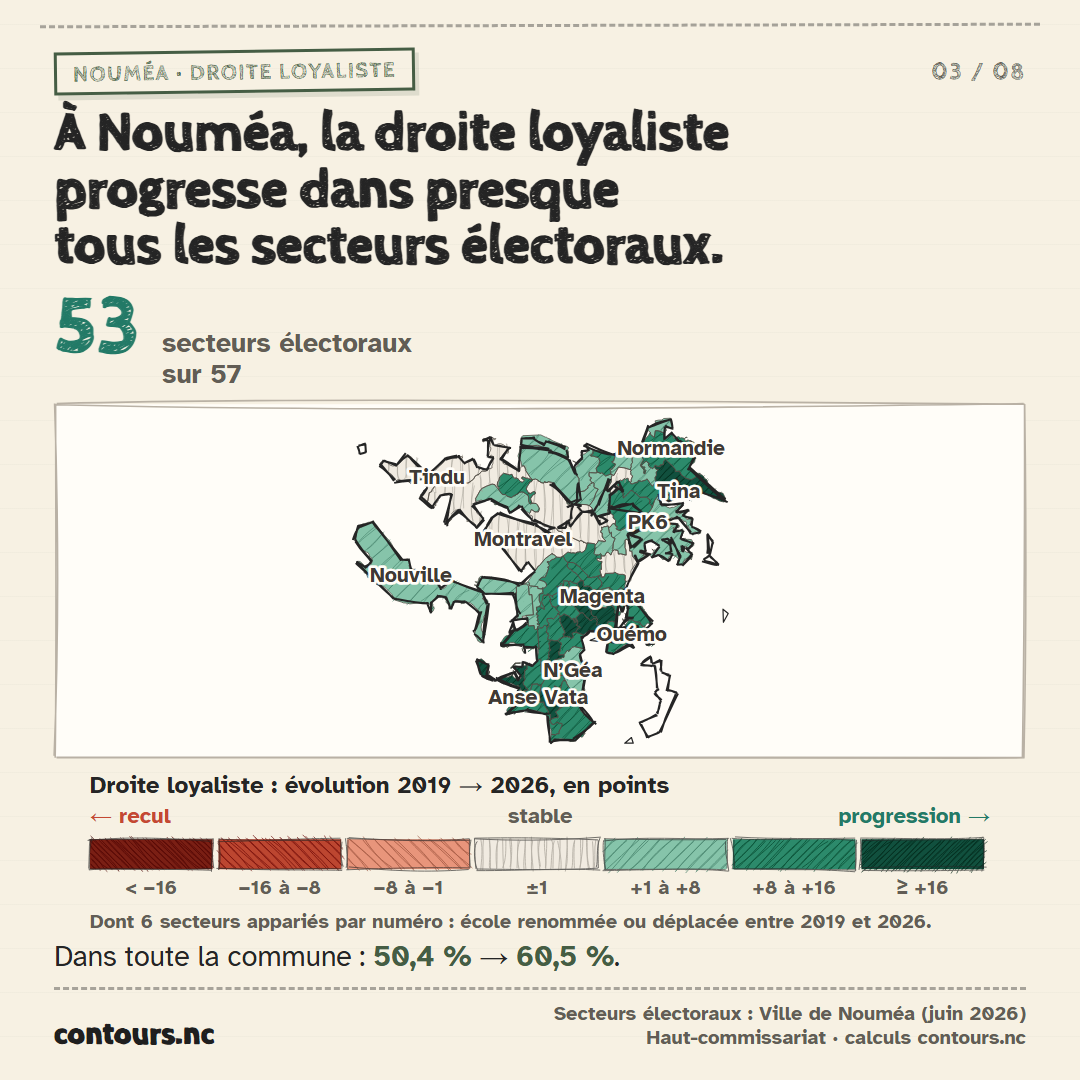
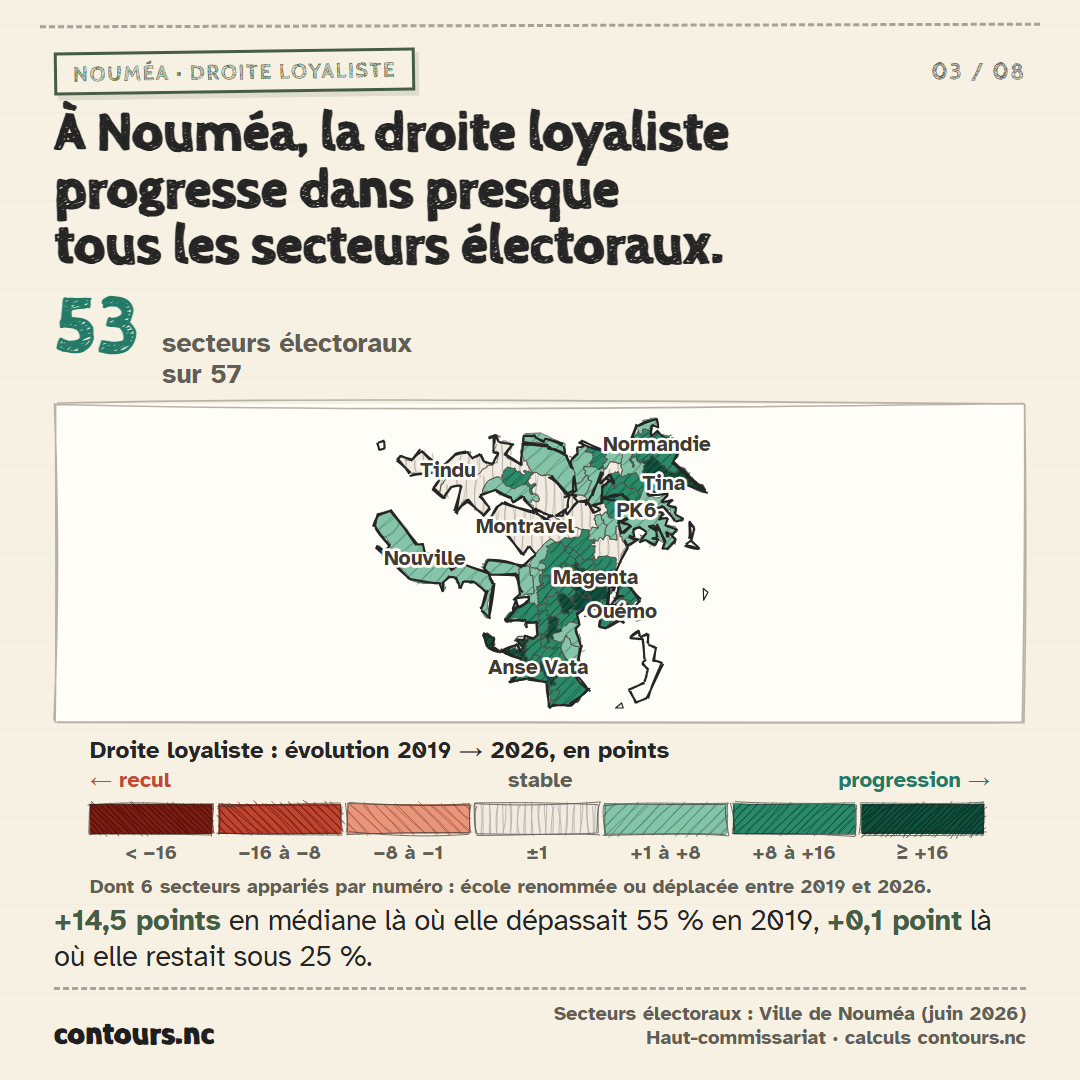
Ajoute à l'écran Nouméa l'évolution selon le niveau de 2019
Reprend le constat ajouté à l'article : la droite loyaliste gagne
+14,5 points en médiane dans les secteurs où elle dépassait 55 % en 2019
et reste stable là où elle était sous 25 %. Valeurs calculées depuis les
données importées.

Changed region(s): [[0.0306, 0.3667, 0.9167, 0.9167], [0.9167, 0.6417, 0.9472, 0.7028]]

diff --git a/articles/provinciales-2026-geographie-forces-politiques/visuels.js b/articles/provinciales-2026-geographie-forces-politiques/visuels.js
@@ -122,6 +122,23 @@
     });
   }
 
+  // Évolution médiane selon le niveau de 2019, comme dans l'article (seuils de
+  // lecture : moins de 25 % et 55 % ou plus).
+  function noumeaBands(data) {
+    const score = (year, code) => data.points.find((d) => d.commune === "Nouméa" && d.annee === year &&
+      d.force === "loyaliste" && Number(d.code_bv) === code)?.pct;
+    const rows = pairs(data, "Province Sud").filter((p) => p.commune === "Nouméa").map((p) => {
+      const before = score(2019, Number(p.code_bv_2019));
+      return { before, delta: score(2026, Number(p.code_bv_2026)) - before };
+    }).filter((d) => Number.isFinite(d.delta));
+    const median = (list) => d3.median(list, (d) => d.delta);
+    const weak = rows.filter((d) => d.before < 25);
+    const strong = rows.filter((d) => d.before >= 55);
+    if (!weak.length || !strong.length) throw new Error("Classes de niveau vides à Nouméa");
+    return { weak: median(weak), strong: median(strong) };
+  }
+  const ptsWord = (x) => `${signed(x)} ${Math.abs(Math.round(x * 10) / 10) < 2 ? "point" : "points"}`;
+
   function sectorCounts(data) {
     const deltas = sectorDeltas(data, "loyaliste");
     const codes = new Set(data.secteurs.map((f) => Number(f.properties.code_bv)));
@@ -186,10 +203,9 @@
       farino_loy_2019: pct(communeAt(data, sud, "Farino", "loyaliste", "score_2019")),
       farino_loy_2026: pct(communeAt(data, sud, "Farino", "loyaliste")),
       poya_loy_2026: pct(communeAt(data, sud, "Poya Sud", "loyaliste")),
-      noumea_loy_2019: pct(communeAt(data, sud, "Nouméa", "loyaliste", "score_2019")),
-      noumea_loy_2026: pct(communeAt(data, sud, "Nouméa", "loyaliste")),
-      noumea_loy_evo_n: communeAt(data, sud, "Nouméa", "loyaliste", "evolution_points"),
       noumea_secteurs_hausse: sectorCounts(data).up,
+      noumea_med_fort: ptsWord(noumeaBands(data).strong),
+      noumea_med_faible: ptsWord(noumeaBands(data).weak),
       noumea_secteurs_comparables: sectorCounts(data).compared,
       sud_centre_reculs: String(centre.filter((d) => d.y < d.x).length),
       sud_paires: String(pairs(data, sud).length),

diff --git a/articles/provinciales-2026-geographie-forces-politiques/source.html b/articles/provinciales-2026-geographie-forces-politiques/source.html
@@ -38,7 +38,7 @@
     <figure class="figure">
       <svg data-sketch="secteurs" data-force="loyaliste" data-legende="Droite loyaliste : évolution 2019 → 2026, en points" role="img" aria-label="Carte des secteurs électoraux de Nouméa colorés selon l’évolution de la droite loyaliste dans leur bureau entre 2019 et 2026 : elle progresse dans presque tous les secteurs comparables"></svg>
     </figure>
-    <p class="note">Dans toute la commune&nbsp;: <strong data-v="noumea_loy_2019"></strong> → <strong data-v="noumea_loy_2026"></strong>. <span class="hide-square">Un secteur = les électeurs d’un bureau&nbsp;; en 2026, ils votaient dans neuf lieux regroupés.</span></p>
+    <p class="note"><strong data-v="noumea_med_fort"></strong> en médiane là où elle dépassait 55&nbsp;% en 2019, <strong data-v="noumea_med_faible"></strong> là où elle restait sous 25&nbsp;%. <span class="hide-square hide-tiktok">Un secteur = les électeurs d’un bureau.</span></p>
     <footer class="brandbar"><strong class="contours-brand">contours.nc</strong><span class="source">Secteurs électoraux : Ville de Nouméa (juin 2026)<br>Haut-commissariat · calculs contours.nc</span></footer>
   </article>
 

diff --git a/articles/provinciales-2026-geographie-forces-politiques/README.md b/articles/provinciales-2026-geographie-forces-politiques/README.md
@@ -82,7 +82,7 @@ Les écrans 9:16 sont des images fixes : prévoir 3 à 4 s par écran, et 6 s po
 
 1. Carte des trois provinces de la Nouvelle-Calédonie : entre 2019 et 2026, l’UC-FLNKS gagne 3,9 points dans le Nord, la participation recule de 11,6 points aux Îles et la droite loyaliste gagne 9,5 points dans le Sud.
 2. Carte lissée de la province Sud : la droite loyaliste passe de 40,6 % à 50,1 % des suffrages exprimés et progresse dans la plupart des communes, notamment à Poya Sud (+29,3 points), Farino (+23,7) et Nouméa (+10,1).
-3. Carte des 57 secteurs électoraux de Nouméa colorés selon l’évolution de la droite loyaliste dans leur bureau : elle progresse dans 53 secteurs, surtout au sud et au nord-est, et reste stable autour de Ducos, Tindu, Kaméré et Montravel ; dans toute la commune, elle passe de 50,4 % à 60,5 %.
+3. Carte des 57 secteurs électoraux de Nouméa colorés selon l’évolution de la droite loyaliste dans leur bureau : elle progresse dans 53 secteurs ; +14,5 points en médiane là où elle dépassait 55 % en 2019, +0,1 point là où elle restait sous 25 %, notamment à Montravel, Kaméré, Tindu et Rivière-Salée.
 4. Essaim des 122 bureaux comparables de la province Sud, placés selon l’évolution du centre non-indépendantiste en points : 115 reculent, 7 progressent ; dans la province, le centre passe de 18,5 % à 12,1 % (−6,4 points).
 5. Carte lissée de la province Nord : l’UC passe de 36,0 % à 39,9 % et l’UNI de 38,5 % à 35,7 % ; l’UC progresse le plus à Houaïlou (+18,9 points) et avance à Touho (+10,3).
 6. Essaim des 41 bureaux comparables de la province des Îles, placés selon l’évolution de l’abstention en points : elle augmente dans 39 bureaux ; la participation passe de 66,5 % à 54,9 %.
